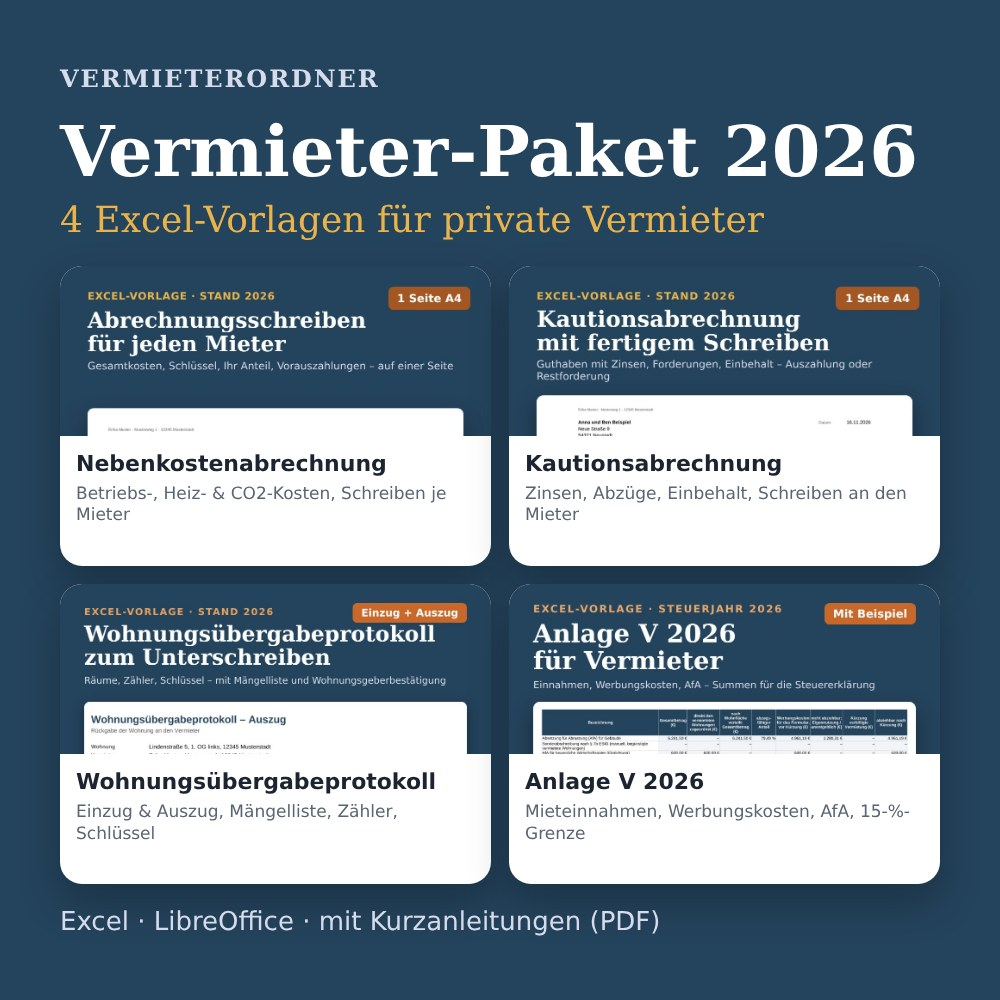
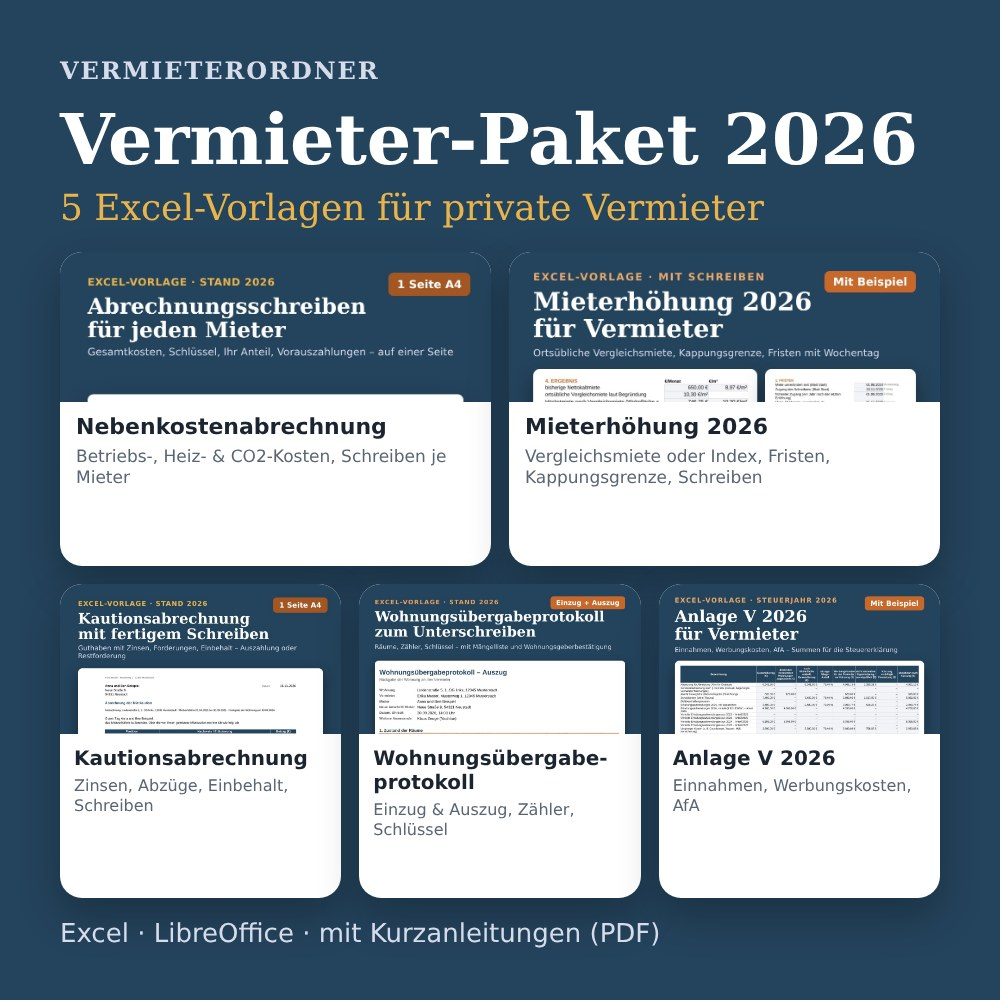
WIP: Vermieter-Paket mit 5 Vorlagen (39,90 €) – erst nach DS24-Umstellung live
Claude-Session: https://claude.ai/code/session_0175UiJjZS6AvFwhkbq53yr1

Changed region(s): [[0.062, 0.062, 0.961, 0.527], [0.062, 0.589, 0.961, 0.961], [0.868, 0.465, 0.899, 0.496]]

diff --git a/docs/vermieter-paket.html b/docs/vermieter-paket.html
@@ -3,12 +3,12 @@
 <head>
 <meta charset="utf-8">
 <meta name="viewport" content="width=device-width, initial-scale=1">
-<title>Vermieter-Paket 2026: 4 Excel-Vorlagen für private Vermieter</title>
-<meta name="description" content="Nebenkostenabrechnung, Kautionsabrechnung, Wohnungsübergabeprotokoll und Anlage V 2026 als Excel-Vorlagen im Paket für 32,90 €.">
+<title>Vermieter-Paket 2026: 5 Excel-Vorlagen für private Vermieter</title>
+<meta name="description" content="Nebenkostenabrechnung, Kautionsabrechnung, Wohnungsübergabeprotokoll, Anlage V und Mieterhöhung 2026 als Excel-Vorlagen im Paket für 39,90 €.">
 <link rel="stylesheet" href="style.css">
 <link rel="canonical" href="https://vermieterordner.de/vermieter-paket.html">
-<meta property="og:title" content="Vermieter-Paket 2026: 4 Excel-Vorlagen für private Vermieter">
-<meta property="og:description" content="Nebenkostenabrechnung, Kautionsabrechnung, Wohnungsübergabeprotokoll und Anlage V 2026 als Excel-Vorlagen im Paket für 32,90 €.">
+<meta property="og:title" content="Vermieter-Paket 2026: 5 Excel-Vorlagen für private Vermieter">
+<meta property="og:description" content="Nebenkostenabrechnung, Kautionsabrechnung, Wohnungsübergabeprotokoll, Anlage V und Mieterhöhung 2026 als Excel-Vorlagen im Paket für 39,90 €.">
 <meta property="og:type" content="website">
 <meta property="og:url" content="https://vermieterordner.de/vermieter-paket.html">
 <meta property="og:locale" content="de_DE">
@@ -18,7 +18,7 @@
 <link rel="icon" href="favicon.svg" type="image/svg+xml">
 <link rel="icon" href="favicon-48.png" sizes="48x48" type="image/png"><link rel="apple-touch-icon" href="apple-touch-icon.png">
 <meta name="theme-color" content="#24435C">
-<script type="application/ld+json">{"@context": "https://schema.org", "@type": "Product", "name": "Vermieter-Paket 2026", "description": "4 Excel-Vorlagen in einem Download: Nebenkostenabrechnung, Kautionsabrechnung, Wohnungsübergabeprotokoll und Anlage V 2026.", "image": "https://vermieterordner.de/img/vermieter-paket-1.jpg", "brand": {"@type": "Brand", "name": "Vermieterordner"}, "offers": {"@type": "Offer", "price": "32.90", "priceCurrency": "EUR", "availability": "https://schema.org/InStock", "url": "https://vermieterordner.de/vermieter-paket.html"}}</script><script type="application/ld+json">{"@context": "https://schema.org", "@type": "FAQPage", "mainEntity": [{"@type": "Question", "name": "Sind das dieselben Vorlagen wie beim Einzelkauf?", "acceptedAnswer": {"@type": "Answer", "text": "Ja. Das Paket enthält genau die vier Vorlagen, die es auch einzeln gibt, mit denselben Kurzanleitungen und Beispielen."}}, {"@type": "Question", "name": "Welche Programme brauche ich?", "acceptedAnswer": {"@type": "Answer", "text": "Alle vier Vorlagen sind für Microsoft Excel und LibreOffice Calc gebaut; Details stehen auf den einzelnen Produktseiten (Anlage V: Excel ab 2010, geprüft in LibreOffice). Nebenkosten- und Kautionsabrechnung funktionieren auch in Google Sheets (ohne Blattschutz und einige Farbmarkierungen). Das Wohnungsübergabeprotokoll ist in Google Sheets nicht getestet, die Anlage V wird in Google Sheets nicht unterstützt."}}, {"@type": "Question", "name": "Ich brauche nur eine oder zwei Vorlagen – lohnt sich das Paket?", "acceptedAnswer": {"@type": "Answer", "text": "Für eine oder zwei Vorlagen ist der Einzelkauf günstiger. Brauchen Sie die Nebenkostenabrechnung und mindestens zwei weitere Vorlagen, lohnt sich das Paket. Die Einzelpreise stehen auf den Produktseiten."}}, {"@type": "Question", "name": "Wie bekomme ich die Datei?", "acceptedAnswer": {"@type": "Answer", "text": "Direkt nach der Zahlung über den Download-Link auf der Bestätigungsseite und zusätzlich per E-Mail von Digistore24."}}, {"@type": "Question", "name": "Für wen sind die Vorlagen gebaut?", "acceptedAnswer": {"@type": "Answer", "text": "Für private Vermieter von Wohnraum in Deutschland. Für Gewerberaum sind sie nicht gebaut. Was jede Vorlage genau abdeckt, steht auf der jeweiligen Produktseite."}}]}</script><script type="application/ld+json">{"@context": "https://schema.org", "@type": "BreadcrumbList", "itemListElement": [{"@type": "ListItem", "position": 1, "name": "Vermieterordner", "item": "https://vermieterordner.de/"}, {"@type": "ListItem", "position": 2, "name": "Vermieter-Paket 2026", "item": "https://vermieterordner.de/vermieter-paket.html"}]}</script>
+<script type="application/ld+json">{"@context": "https://schema.org", "@type": "Product", "name": "Vermieter-Paket 2026", "description": "5 Excel-Vorlagen in einem Download: Nebenkostenabrechnung, Kautionsabrechnung, Wohnungsübergabeprotokoll, Anlage V 2026 und Mieterhöhung 2026.", "image": "https://vermieterordner.de/img/vermieter-paket-1.jpg", "brand": {"@type": "Brand", "name": "Vermieterordner"}, "offers": {"@type": "Offer", "price": "39.90", "priceCurrency": "EUR", "availability": "https://schema.org/InStock", "url": "https://vermieterordner.de/vermieter-paket.html"}}</script><script type="application/ld+json">{"@context": "https://schema.org", "@type": "FAQPage", "mainEntity": [{"@type": "Question", "name": "Sind das dieselben Vorlagen wie beim Einzelkauf?", "acceptedAnswer": {"@type": "Answer", "text": "Ja. Das Paket enthält genau die fünf Vorlagen, die es auch einzeln gibt, mit denselben Kurzanleitungen und Beispielen."}}, {"@type": "Question", "name": "Welche Programme brauche ich?", "acceptedAnswer": {"@type": "Answer", "text": "Alle fünf Vorlagen sind für Microsoft Excel und LibreOffice Calc gebaut; Details stehen auf den einzelnen Produktseiten (Anlage V und Mieterhöhung: Excel ab 2010, geprüft in LibreOffice). Nebenkosten- und Kautionsabrechnung funktionieren auch in Google Sheets (ohne Blattschutz und einige Farbmarkierungen). Das Wohnungsübergabeprotokoll ist in Google Sheets nicht getestet, Anlage V und Mieterhöhung werden in Google Sheets nicht unterstützt."}}, {"@type": "Question", "name": "Ich brauche nicht alle Vorlagen – lohnt sich das Paket?", "acceptedAnswer": {"@type": "Answer", "text": "Ab vier Vorlagen lohnt sich das Paket – egal, welche vier Sie brauchen. Für bis zu drei Vorlagen ist der Einzelkauf günstiger. Die Einzelpreise stehen auf den Produktseiten."}}, {"@type": "Question", "name": "Wie bekomme ich die Datei?", "acceptedAnswer": {"@type": "Answer", "text": "Direkt nach der Zahlung über den Download-Link auf der Bestätigungsseite und zusätzlich per E-Mail von Digistore24."}}, {"@type": "Question", "name": "Für wen sind die Vorlagen gebaut?", "acceptedAnswer": {"@type": "Answer", "text": "Für private Vermieter von Wohnraum in Deutschland. Für Gewerberaum sind sie nicht gebaut. Was jede Vorlage genau abdeckt, steht auf der jeweiligen Produktseite."}}]}</script><script type="application/ld+json">{"@context": "https://schema.org", "@type": "BreadcrumbList", "itemListElement": [{"@type": "ListItem", "position": 1, "name": "Vermieterordner", "item": "https://vermieterordner.de/"}, {"@type": "ListItem", "position": 2, "name": "Vermieter-Paket 2026", "item": "https://vermieterordner.de/vermieter-paket.html"}]}</script>
 </head>
 <body>
 <header><div class="wrap">
@@ -28,33 +28,34 @@
 <main>
 <div class="wrap hero">
 <div>
-<p class="eyebrow">4 Excel-Vorlagen · Stand 2026</p>
-<h1 class="serif">Vermieter-Paket 2026 – 4 Excel-Vorlagen für private Vermieter</h1>
-<p class="lead">Vier Vorlagen von Vermieterordner in einem Download: Nebenkosten&shy;abrechnung, Kautions&shy;abrechnung, Wohnungs&shy;übergabe&shy;protokoll und Anlage V 2026. Dieselben Dateien wie beim Einzelkauf – vom Einzug über die jährliche Abrechnung und die Steuererklärung bis zum Auszug.</p>
-<a class="btn" href="https://www.checkout-ds24.com/product/762465" rel="nofollow">Jetzt kaufen – 32,90&nbsp;€</a>
+<p class="eyebrow">5 Excel-Vorlagen · Stand 2026</p>
+<h1 class="serif">Vermieter-Paket 2026 – 5 Excel-Vorlagen für private Vermieter</h1>
+<p class="lead">Fünf Vorlagen von Vermieterordner in einem Download: Nebenkosten&shy;abrechnung, Kautions&shy;abrechnung, Wohnungs&shy;übergabe&shy;protokoll, Anlage V 2026 und Mieterhöhung 2026. Dieselben Dateien wie beim Einzelkauf – vom Einzug über die jährliche Abrechnung, die Mieterhöhung und die Steuererklärung bis zum Auszug.</p>
+<a class="btn" href="https://www.checkout-ds24.com/product/762465" rel="nofollow">Jetzt kaufen – 39,90&nbsp;€</a>
 <p class="note">Digitales Produkt · Download-Link direkt nach dem Kauf · Einmalzahlung, kein Abo</p>
 </div>
 <div><picture><source type="image/webp" srcset="img/vermieter-paket-1-500.webp 500w, img/vermieter-paket-1.webp 1000w" sizes="(max-width:640px) 100vw, 460px"><img class="heroimg" src="img/vermieter-paket-1.jpg" width="1000" height="1000" alt="Produktbild Vermieter-Paket 2026"></picture></div>
 </div>
 <section class="band"><div class="wrap">
 <h2 class="serif">Das bekommen Sie</h2>
-<div class="split"><div><table class="spec"><tr><th>Produkt</th><td>Vermieter-Paket 2026</td></tr><tr><th>Art</th><td>Digitales Produkt zum Herunterladen. Kein Versand, keine Installation, kein Abo.</td></tr><tr><th>Format</th><td>ZIP-Datei mit allen vier Vorlagen – jede mit Excel-Datei (.xlsx) und PDF-Kurzanleitung, Wohnungs&shy;übergabe&shy;protokoll und Anlage V zusätzlich mit ausgefülltem Beispiel. Sprache Deutsch.</td></tr><tr><th>Inhalt</th><td>Nebenkosten&shy;abrechnung (8 Arbeitsblätter), Kautions&shy;abrechnung (5), Wohnungs&shy;übergabe&shy;protokoll (7), Anlage V 2026 (7) – Details auf den einzelnen Produktseiten</td></tr><tr><th>Lieferung</th><td>Download-Link sofort nach der Zahlung, zusätzlich per E-Mail</td></tr><tr><th>Preis</th><td><strong>32,90&nbsp;€ einmalig</strong></td></tr><tr><th>Für wen</th><td>private Vermieter von Wohnraum in Deutschland mit einem oder mehreren Mietobjekten – die Grenzen jeder Vorlage stehen auf den einzelnen Produktseiten</td></tr></table></div>
-<div class="shots"><picture><source type="image/webp" srcset="img/nebenkostenabrechnung-2-500.webp 500w, img/nebenkostenabrechnung-2.webp 1000w" sizes="(max-width:640px) 100vw, 360px"><img src="img/nebenkostenabrechnung-2.jpg" width="1000" height="1000" alt="Beispielansicht Nebenkostenabrechnung" loading="lazy"></picture><picture><source type="image/webp" srcset="img/kautionsabrechnung-2-500.webp 500w, img/kautionsabrechnung-2.webp 1000w" sizes="(max-width:640px) 100vw, 360px"><img src="img/kautionsabrechnung-2.jpg" width="1000" height="1000" alt="Beispielansicht Kautionsabrechnung" loading="lazy"></picture><picture><source type="image/webp" srcset="img/uebergabeprotokoll-2-500.webp 500w, img/uebergabeprotokoll-2.webp 1000w" sizes="(max-width:640px) 100vw, 360px"><img src="img/uebergabeprotokoll-2.jpg" width="1000" height="1000" alt="Beispielansicht Wohnungsübergabeprotokoll" loading="lazy"></picture><picture><source type="image/webp" srcset="img/anlagev-2-500.webp 500w, img/anlagev-2.webp 1000w" sizes="(max-width:640px) 100vw, 360px"><img src="img/anlagev-2.jpg" width="1000" height="1000" alt="Beispielansicht Anlage V 2026" loading="lazy"></picture></div></div>
+<div class="split"><div><table class="spec"><tr><th>Produkt</th><td>Vermieter-Paket 2026</td></tr><tr><th>Art</th><td>Digitales Produkt zum Herunterladen. Kein Versand, keine Installation, kein Abo.</td></tr><tr><th>Format</th><td>ZIP-Datei mit allen fünf Vorlagen – jede mit Excel-Datei (.xlsx) und PDF-Kurzanleitung, Wohnungs&shy;übergabe&shy;protokoll, Anlage V und Mieterhöhung zusätzlich mit ausgefülltem Beispiel. Sprache Deutsch.</td></tr><tr><th>Inhalt</th><td>Nebenkosten&shy;abrechnung (8 Arbeitsblätter), Kautions&shy;abrechnung (5), Wohnungs&shy;übergabe&shy;protokoll (7), Anlage V 2026 (7), Mieterhöhung 2026 (6) – Details auf den einzelnen Produktseiten</td></tr><tr><th>Lieferung</th><td>Download-Link sofort nach der Zahlung, zusätzlich per E-Mail</td></tr><tr><th>Preis</th><td><strong>39,90&nbsp;€ einmalig</strong></td></tr><tr><th>Für wen</th><td>private Vermieter von Wohnraum in Deutschland mit einem oder mehreren Mietobjekten – die Grenzen jeder Vorlage stehen auf den einzelnen Produktseiten</td></tr></table></div>
+<div class="shots"><picture><source type="image/webp" srcset="img/nebenkostenabrechnung-2-500.webp 500w, img/nebenkostenabrechnung-2.webp 1000w" sizes="(max-width:640px) 100vw, 360px"><img src="img/nebenkostenabrechnung-2.jpg" width="1000" height="1000" alt="Beispielansicht Nebenkostenabrechnung" loading="lazy"></picture><picture><source type="image/webp" srcset="img/kautionsabrechnung-2-500.webp 500w, img/kautionsabrechnung-2.webp 1000w" sizes="(max-width:640px) 100vw, 360px"><img src="img/kautionsabrechnung-2.jpg" width="1000" height="1000" alt="Beispielansicht Kautionsabrechnung" loading="lazy"></picture><picture><source type="image/webp" srcset="img/uebergabeprotokoll-2-500.webp 500w, img/uebergabeprotokoll-2.webp 1000w" sizes="(max-width:640px) 100vw, 360px"><img src="img/uebergabeprotokoll-2.jpg" width="1000" height="1000" alt="Beispielansicht Wohnungsübergabeprotokoll" loading="lazy"></picture><picture><source type="image/webp" srcset="img/anlagev-2-500.webp 500w, img/anlagev-2.webp 1000w" sizes="(max-width:640px) 100vw, 360px"><img src="img/anlagev-2.jpg" width="1000" height="1000" alt="Beispielansicht Anlage V 2026" loading="lazy"></picture><picture><source type="image/webp" srcset="img/mieterhoehung-2-500.webp 500w, img/mieterhoehung-2.webp 1000w" sizes="(max-width:640px) 100vw, 360px"><img src="img/mieterhoehung-2.jpg" width="1000" height="1000" alt="Beispielansicht Mieterhöhung 2026" loading="lazy"></picture></div></div>
 </div></section>
-<section><div class="wrap"><h2 class="serif">Was die vier Vorlagen können</h2><div class="grid2"><div class="feat"><h3>Nebenkosten&shy;abrechnung</h3><p>Betriebs-, Heiz- und CO2-Kosten für bis zu 12 Mietverhältnisse verteilen – mit Abrechnungs&shy;schreiben je Mieter, Anlage nach §&nbsp;6a HeizkostenV und Fristprüfung.</p></div><div class="feat"><h3>Kautions&shy;abrechnung</h3><p>Kaution mit Zinsen abrechnen, Schäden zum Zeitwert ansetzen und bei Bedarf einen Einbehalt für eine noch ausstehende Betriebskosten&shy;abrechnung festhalten – mit Schreiben an den Mieter.</p></div><div class="feat"><h3>Wohnungs&shy;übergabe&shy;protokoll</h3><p>Einzug und Auszug in einer Datei: 90 Positionen in 11 Bereichen, Vergleich mit dem Einzug, Zähler, Schlüssel, Protokoll zum Unterschreiben und Wohnungsgeberbestätigung.</p></div><div class="feat"><h3>Anlage V 2026</h3><p>Mieteinnahmen, Werbungskosten, Erhaltungsaufwand und Gebäude-AfA je Objekt – mit Summen für die Steuererklärung 2026 und 12 Prüfungen.</p></div><div class="feat"><h3>Einmal zahlen, einzeln nutzen</h3><p>Jede Vorlage ist eine eigene Datei mit eigener Kurzanleitung. Für jede neue Abrechnung, jede Übergabe oder jedes weitere Objekt legen Sie einfach eine Kopie an.</p></div></div></div></section>
+<section><div class="wrap"><h2 class="serif">Was die fünf Vorlagen können</h2><div class="grid2"><div class="feat"><h3>Nebenkosten&shy;abrechnung</h3><p>Betriebs-, Heiz- und CO2-Kosten für bis zu 12 Mietverhältnisse verteilen – mit Abrechnungs&shy;schreiben je Mieter, Anlage nach §&nbsp;6a HeizkostenV und Fristprüfung.</p></div><div class="feat"><h3>Kautions&shy;abrechnung</h3><p>Kaution mit Zinsen abrechnen, Schäden zum Zeitwert ansetzen und bei Bedarf einen Einbehalt für eine noch ausstehende Betriebskosten&shy;abrechnung festhalten – mit Schreiben an den Mieter.</p></div><div class="feat"><h3>Wohnungs&shy;übergabe&shy;protokoll</h3><p>Einzug und Auszug in einer Datei: 90 Positionen in 11 Bereichen, Vergleich mit dem Einzug, Zähler, Schlüssel, Protokoll zum Unterschreiben und Wohnungsgeberbestätigung.</p></div><div class="feat"><h3>Anlage V 2026</h3><p>Mieteinnahmen, Werbungskosten, Erhaltungsaufwand und Gebäude-AfA je Objekt – mit Summen für die Steuererklärung 2026 und 12 Prüfungen.</p></div><div class="feat"><h3>Mieterhöhung 2026</h3><p>Erhöhung auf die ortsübliche Vergleichsmiete oder bei Indexmiete nach dem Verbraucherpreisindex rechnen – mit Fristen, Kappungsgrenze, 15 Prüfungen und fertigem Schreiben an den Mieter.</p></div><div class="feat"><h3>Einmal zahlen, einzeln nutzen</h3><p>Jede Vorlage ist eine eigene Datei mit eigener Kurzanleitung. Für jede neue Abrechnung, jede Übergabe, jede Mieterhöhung oder jedes weitere Objekt legen Sie einfach eine Kopie an.</p></div></div></div></section>
 <section><div class="wrap"><h2 class="serif">Im Paket enthalten</h2><div class="pgrid"><a class="pcard" href="nebenkostenabrechnung.html"><picture><source type="image/webp" srcset="img/nebenkostenabrechnung-1-500.webp 500w, img/nebenkostenabrechnung-1.webp 1000w" sizes="(max-width:640px) 100vw, 360px"><img src="img/nebenkostenabrechnung-1.jpg" width="1000" height="1000" alt="Produktbild Nebenkostenabrechnung" loading="lazy"></picture>
 <div class="pbody"><h3>Nebenkosten&shy;abrechnung</h3><p>Betriebs-, Heiz- und CO2-Kosten je Mieter verteilen – mit fertigem Abrechnungs&shy;schreiben.</p><div class="prow"><span class="price">14,90&nbsp;€</span><span class="more">Ansehen</span></div></div></a><a class="pcard" href="kautionsabrechnung.html"><picture><source type="image/webp" srcset="img/kautionsabrechnung-1-500.webp 500w, img/kautionsabrechnung-1.webp 1000w" sizes="(max-width:640px) 100vw, 360px"><img src="img/kautionsabrechnung-1.jpg" width="1000" height="1000" alt="Produktbild Kautionsabrechnung" loading="lazy"></picture>
 <div class="pbody"><h3>Kautions&shy;abrechnung</h3><p>Kaution mit Zinsen abrechnen, Schäden zum Zeitwert ansetzen – mit fertigem Schreiben an den Mieter.</p><div class="prow"><span class="price">9,90&nbsp;€</span><span class="more">Ansehen</span></div></div></a><a class="pcard" href="wohnungsuebergabeprotokoll.html"><picture><source type="image/webp" srcset="img/uebergabeprotokoll-1-500.webp 500w, img/uebergabeprotokoll-1.webp 1000w" sizes="(max-width:640px) 100vw, 360px"><img src="img/uebergabeprotokoll-1.jpg" width="1000" height="1000" alt="Produktbild Wohnungsübergabeprotokoll" loading="lazy"></picture>
 <div class="pbody"><h3>Wohnungs&shy;übergabe&shy;protokoll</h3><p>Einzug und Auszug Raum für Raum protokollieren – mit Mängelliste, Zählern, Schlüsseln und Unterschriftsfeldern.</p><div class="prow"><span class="price">9,90&nbsp;€</span><span class="more">Ansehen</span></div></div></a><a class="pcard" href="anlage-v.html"><picture><source type="image/webp" srcset="img/anlagev-1-500.webp 500w, img/anlagev-1.webp 1000w" sizes="(max-width:640px) 100vw, 360px"><img src="img/anlagev-1.jpg" width="1000" height="1000" alt="Produktbild Anlage V 2026" loading="lazy"></picture>
-<div class="pbody"><h3>Anlage V 2026</h3><p>Mieteinnahmen, Werbungskosten und AfA je Objekt sammeln – mit Summen für die Anlage V und 12 Prüfungen.</p><div class="prow"><span class="price">12,90&nbsp;€</span><span class="more">Ansehen</span></div></div></a></div></div></section>
+<div class="pbody"><h3>Anlage V 2026</h3><p>Mieteinnahmen, Werbungskosten und AfA je Objekt sammeln – mit Summen für die Anlage V und 12 Prüfungen.</p><div class="prow"><span class="price">12,90&nbsp;€</span><span class="more">Ansehen</span></div></div></a><a class="pcard" href="mieterhoehung.html"><picture><source type="image/webp" srcset="img/mieterhoehung-1-500.webp 500w, img/mieterhoehung-1.webp 1000w" sizes="(max-width:640px) 100vw, 360px"><img src="img/mieterhoehung-1.jpg" width="1000" height="1000" alt="Produktbild Mieterhöhung 2026" loading="lazy"></picture>
+<div class="pbody"><h3>Mieterhöhung 2026</h3><p>Mieterhöhung auf die ortsübliche Vergleichsmiete oder nach Index rechnen – mit Fristen, Kappungsgrenze und fertigem Schreiben.</p><div class="prow"><span class="price">9,90&nbsp;€</span><span class="more">Ansehen</span></div></div></a></div></div></section>
 <section class="band"><div class="wrap faq">
 <h2 class="serif">Häufige Fragen</h2>
-<h3>Sind das dieselben Vorlagen wie beim Einzelkauf?</h3><p>Ja. Das Paket enthält genau die vier Vorlagen, die es auch einzeln gibt, mit denselben Kurzanleitungen und Beispielen.</p><h3>Welche Programme brauche ich?</h3><p>Alle vier Vorlagen sind für Microsoft Excel und LibreOffice Calc gebaut; Details stehen auf den einzelnen Produktseiten (Anlage V: Excel ab 2010, geprüft in LibreOffice). Nebenkosten- und Kautions&shy;abrechnung funktionieren auch in Google Sheets (ohne Blattschutz und einige Farbmarkierungen). Das Wohnungs&shy;übergabe&shy;protokoll ist in Google Sheets nicht getestet, die Anlage V wird in Google Sheets nicht unterstützt.</p><h3>Ich brauche nur eine oder zwei Vorlagen – lohnt sich das Paket?</h3><p>Für eine oder zwei Vorlagen ist der Einzelkauf günstiger. Brauchen Sie die Nebenkosten&shy;abrechnung und mindestens zwei weitere Vorlagen, lohnt sich das Paket. Die Einzelpreise stehen auf den Produktseiten.</p><h3>Wie bekomme ich die Datei?</h3><p>Direkt nach der Zahlung über den Download-Link auf der Bestätigungsseite und zusätzlich per E-Mail von Digistore24.</p><h3>Für wen sind die Vorlagen gebaut?</h3><p>Für private Vermieter von Wohnraum in Deutschland. Für Gewerberaum sind sie nicht gebaut. Was jede Vorlage genau abdeckt, steht auf der jeweiligen Produktseite.</p>
+<h3>Sind das dieselben Vorlagen wie beim Einzelkauf?</h3><p>Ja. Das Paket enthält genau die fünf Vorlagen, die es auch einzeln gibt, mit denselben Kurzanleitungen und Beispielen.</p><h3>Welche Programme brauche ich?</h3><p>Alle fünf Vorlagen sind für Microsoft Excel und LibreOffice Calc gebaut; Details stehen auf den einzelnen Produktseiten (Anlage V und Mieterhöhung: Excel ab 2010, geprüft in LibreOffice). Nebenkosten- und Kautions&shy;abrechnung funktionieren auch in Google Sheets (ohne Blattschutz und einige Farbmarkierungen). Das Wohnungs&shy;übergabe&shy;protokoll ist in Google Sheets nicht getestet, Anlage V und Mieterhöhung werden in Google Sheets nicht unterstützt.</p><h3>Ich brauche nicht alle Vorlagen – lohnt sich das Paket?</h3><p>Ab vier Vorlagen lohnt sich das Paket – egal, welche vier Sie brauchen. Für bis zu drei Vorlagen ist der Einzelkauf günstiger. Die Einzelpreise stehen auf den Produktseiten.</p><h3>Wie bekomme ich die Datei?</h3><p>Direkt nach der Zahlung über den Download-Link auf der Bestätigungsseite und zusätzlich per E-Mail von Digistore24.</p><h3>Für wen sind die Vorlagen gebaut?</h3><p>Für private Vermieter von Wohnraum in Deutschland. Für Gewerberaum sind sie nicht gebaut. Was jede Vorlage genau abdeckt, steht auf der jeweiligen Produktseite.</p>
 </div></section>
 <section id="kaufen" class="band"><div class="wrap buy">
 <h2 class="serif">Vermieter-Paket 2026 kaufen</h2>
 <p class="sub2">Digitaler Download · sofort nach der Zahlung verfügbar</p>
-<div class="price-big serif">32,90&nbsp;€</div>
+<div class="price-big serif">39,90&nbsp;€</div>
 <a class="btn btn-lg" href="https://www.checkout-ds24.com/product/762465" rel="nofollow">Jetzt kaufen</a>
 <p class="note">Sichere Zahlung und Rechnung über Digistore24. Preis inkl. gesetzlicher MwSt., sofern anfallend.</p>
 </div></section>

diff --git a/docs/index.html b/docs/index.html
@@ -46,8 +46,8 @@
 <div class="pbuy"><span class="price">12,90&nbsp;€</span><a class="btn btn-sm" href="anlage-v.html">Ansehen</a></div></article><article class="prow2"><a class="pthumb" href="mieterhoehung.html"><picture><source type="image/webp" srcset="img/mieterhoehung-1-500.webp 500w, img/mieterhoehung-1.webp 1000w" sizes="(max-width:640px) 100vw, 360px"><img src="img/mieterhoehung-1.jpg" width="1000" height="1000" alt="Produktbild Mieterhöhung 2026" loading="lazy"></picture></a>
 <div class="ptxt"><h3><a href="mieterhoehung.html">Mieterhöhung 2026</a></h3><p>Mieterhöhung auf die ortsübliche Vergleichsmiete oder nach Index rechnen – mit Fristen, Kappungsgrenze und fertigem Schreiben.</p><ul class="ticks"><li>Fristen mit Wochentag</li><li>Kappungsgrenze 20&nbsp;% oder 15&nbsp;%</li><li>Vier Begründungsmittel</li></ul></div>
 <div class="pbuy"><span class="price">9,90&nbsp;€</span><a class="btn btn-sm" href="mieterhoehung.html">Ansehen</a></div></article><article class="prow2"><a class="pthumb" href="vermieter-paket.html"><picture><source type="image/webp" srcset="img/vermieter-paket-1-500.webp 500w, img/vermieter-paket-1.webp 1000w" sizes="(max-width:640px) 100vw, 360px"><img src="img/vermieter-paket-1.jpg" width="1000" height="1000" alt="Produktbild Vermieter-Paket 2026" loading="lazy"></picture></a>
-<div class="ptxt"><h3><a href="vermieter-paket.html">Vermieter-Paket 2026</a></h3><p>4 Excel-Vorlagen in einem Download: Nebenkosten&shy;abrechnung, Kautions&shy;abrechnung, Wohnungs&shy;übergabe&shy;protokoll und Anlage V 2026.</p><ul class="ticks"><li>4 Vorlagen, je eine eigene Datei</li><li>Dieselben Dateien wie einzeln</li><li>Eine Zahlung, ein Download</li></ul></div>
-<div class="pbuy"><span class="price">32,90&nbsp;€</span><a class="btn btn-sm" href="vermieter-paket.html">Ansehen</a></div></article></div>
+<div class="ptxt"><h3><a href="vermieter-paket.html">Vermieter-Paket 2026</a></h3><p>5 Excel-Vorlagen in einem Download: Nebenkosten&shy;abrechnung, Kautions&shy;abrechnung, Wohnungs&shy;übergabe&shy;protokoll, Anlage V 2026 und Mieterhöhung 2026.</p><ul class="ticks"><li>5 Vorlagen, je eine eigene Datei</li><li>Dieselben Dateien wie einzeln</li><li>Eine Zahlung, ein Download</li></ul></div>
+<div class="pbuy"><span class="price">39,90&nbsp;€</span><a class="btn btn-sm" href="vermieter-paket.html">Ansehen</a></div></article></div>
 <p class="note">Einmalzahlung, kein Abo. Preise inkl. gesetzlicher MwSt., sofern anfallend.</p>
 </div></section>
 <section class="about"><div class="wrap duo">

diff --git a/docs/anlage-v.html b/docs/anlage-v.html
@@ -54,7 +54,7 @@
 <div class="price-big serif">12,90&nbsp;€</div>
 <a class="btn btn-lg" href="https://www.checkout-ds24.com/product/759897" rel="nofollow">Jetzt kaufen</a>
 <p class="note">Sichere Zahlung und Rechnung über Digistore24. Preis inkl. gesetzlicher MwSt., sofern anfallend.</p>
-<p class="bundlehint">Auch im <a href="vermieter-paket.html">Vermieter-Paket 2026</a> enthalten: 4 Vorlagen für 32,90&nbsp;€.</p>
+<p class="bundlehint">Auch im <a href="vermieter-paket.html">Vermieter-Paket 2026</a> enthalten: 5 Vorlagen für 39,90&nbsp;€.</p>
 </div></section>
 </main>
 <footer><div class="wrap">

diff --git a/docs/nebenkostenabrechnung.html b/docs/nebenkostenabrechnung.html
@@ -54,7 +54,7 @@
 <div class="price-big serif">14,90&nbsp;€</div>
 <a class="btn btn-lg" href="https://www.checkout-ds24.com/product/757557" rel="nofollow">Jetzt kaufen</a>
 <p class="note">Sichere Zahlung und Rechnung über Digistore24. Preis inkl. gesetzlicher MwSt., sofern anfallend.</p>
-<p class="bundlehint">Auch im <a href="vermieter-paket.html">Vermieter-Paket 2026</a> enthalten: 4 Vorlagen für 32,90&nbsp;€.</p>
+<p class="bundlehint">Auch im <a href="vermieter-paket.html">Vermieter-Paket 2026</a> enthalten: 5 Vorlagen für 39,90&nbsp;€.</p>
 </div></section>
 </main>
 <footer><div class="wrap">

diff --git a/docs/kautionsabrechnung.html b/docs/kautionsabrechnung.html
@@ -54,7 +54,7 @@
 <div class="price-big serif">9,90&nbsp;€</div>
 <a class="btn btn-lg" href="https://www.checkout-ds24.com/product/758283" rel="nofollow">Jetzt kaufen</a>
 <p class="note">Sichere Zahlung und Rechnung über Digistore24. Preis inkl. gesetzlicher MwSt., sofern anfallend.</p>
-<p class="bundlehint">Auch im <a href="vermieter-paket.html">Vermieter-Paket 2026</a> enthalten: 4 Vorlagen für 32,90&nbsp;€.</p>
+<p class="bundlehint">Auch im <a href="vermieter-paket.html">Vermieter-Paket 2026</a> enthalten: 5 Vorlagen für 39,90&nbsp;€.</p>
 </div></section>
 </main>
 <footer><div class="wrap">

diff --git a/docs/wohnungsuebergabeprotokoll.html b/docs/wohnungsuebergabeprotokoll.html
@@ -54,7 +54,7 @@
 <div class="price-big serif">9,90&nbsp;€</div>
 <a class="btn btn-lg" href="https://www.checkout-ds24.com/product/759547" rel="nofollow">Jetzt kaufen</a>
 <p class="note">Sichere Zahlung und Rechnung über Digistore24. Preis inkl. gesetzlicher MwSt., sofern anfallend.</p>
-<p class="bundlehint">Auch im <a href="vermieter-paket.html">Vermieter-Paket 2026</a> enthalten: 4 Vorlagen für 32,90&nbsp;€.</p>
+<p class="bundlehint">Auch im <a href="vermieter-paket.html">Vermieter-Paket 2026</a> enthalten: 5 Vorlagen für 39,90&nbsp;€.</p>
 </div></section>
 </main>
 <footer><div class="wrap">

diff --git a/docs/mieterhoehung.html b/docs/mieterhoehung.html
@@ -54,6 +54,7 @@
 <div class="price-big serif">9,90&nbsp;€</div>
 <a class="btn btn-lg" href="https://www.checkout-ds24.com/product/762477" rel="nofollow">Jetzt kaufen</a>
 <p class="note">Sichere Zahlung und Rechnung über Digistore24. Preis inkl. gesetzlicher MwSt., sofern anfallend.</p>
+<p class="bundlehint">Auch im <a href="vermieter-paket.html">Vermieter-Paket 2026</a> enthalten: 5 Vorlagen für 39,90&nbsp;€.</p>
 </div></section>
 </main>
 <footer><div class="wrap">

diff --git a/src/qa.py b/src/qa.py
@@ -68,6 +68,42 @@ def meta_lengths(max_title=60, max_desc=155):
     return out
 
 
+def bundle_pages():
+    """Pakete (config "includes"): Paketseite ohne Summen-/Vergleichsbeträge, wenn no_compare (DS24-Ablehnung
+    09.11.: „einzeln zusammen …“ galt als Streichpreis) – erlaubt sind nur Paketpreis und Einzelpreise der Karten.
+    Auf jeder enthaltenen Produktseite mit Checkout muss der Paket-Hinweis Anzahl und Preis richtig nennen."""
+    import json
+    cfg = json.load(open(os.path.join(ROOT, "..", "config.json"), encoding="utf-8"))
+    by = {p["slug"]: p for p in cfg.get("products", [])}
+    eur = lambda v: f"{float(v):.2f}".replace(".", ",")
+    out = []
+    for b in cfg.get("products", []):
+        inc = [by[s] for s in dict.fromkeys(b.get("includes", [])) if s in by and s != b["slug"]]
+        if not inc:
+            continue
+        f = os.path.join(ROOT, b["slug"] + ".html")
+        if not os.path.exists(f):
+            out.append(f"{b['slug']}.html fehlt")
+            continue
+        h = re.sub(r"<script.*?</script>", " ", open(f, encoding="utf-8").read(), flags=re.S).replace("&nbsp;", " ")
+        if b.get("no_compare"):
+            ok = {eur(b["price"])} | {eur(q["price"]) for q in inc}
+            amts = set(re.findall(r"(\d+,\d{2}) ?€", h)) - ok
+            if amts:
+                out.append(f"{b['slug']}.html: Beträge außer Paket-/Einzelpreisen trotz no_compare: {sorted(amts)}")
+            if re.search(r"einzeln zusammen|Ersparnis|sparen Sie", h, re.I):
+                out.append(f"{b['slug']}.html: Vergleichs-/Ersparnisformulierung trotz no_compare")
+        want = f"{len(inc)} Vorlagen für {eur(b['price'])} €"
+        for q in inc:
+            if not q.get("checkout_url"):
+                continue
+            hq = open(os.path.join(ROOT, q["slug"] + ".html"), encoding="utf-8").read().replace("&nbsp;", " ")
+            hint = re.search(r'class="bundlehint">.*?href="' + re.escape(b["slug"]) + r'\.html".*?</p>', hq, re.S)
+            if not hint or want not in hint.group(0):
+                out.append(f"{q['slug']}.html: Paket-Hinweis fehlt oder nennt nicht „{want}“")
+    return out
+
+
 def main(argv):
     from playwright.sync_api import sync_playwright
     shot = argv[argv.index("--shot") + 1] if "--shot" in argv else None
@@ -75,6 +111,9 @@ def main(argv):
     for d in dead_links():
         bad += 1
         print("LINK", d)
+    for d in bundle_pages():
+        bad += 1
+        print("PAKET", d)
     # Zu lange Metadaten: bei den Altseiten in META_ALT nur Warnung, sonst ein Problem.
     for m in meta_lengths():
         if m.split(":")[0] in META_ALT:

diff --git a/src/gen_site.py b/src/gen_site.py
@@ -156,12 +156,20 @@ def _check_bundle_amounts(p):
     for k in range(1, len(prices) + 1):
         for c in itertools.combinations(prices, k):
             ok |= {round(sum(c), 2), round(abs(sum(c) - float(p["price"])), 2)}
+    if p.get("no_compare"):  # DS24: keine Summen-/Vergleichs-/Ersparnisbeträge, nur der Paketpreis selbst
+        ok = {round(float(p["price"]), 2)}
     okt = {f"{v:.2f}".replace(".", ",") for v in ok}
-    txt = " ".join([p.get("short", ""), p.get("lead", ""), p.get("meta_description", ""), p.get("seo_title", "")]
-                   + [a + " " + b for a, b in p.get("features", []) + p.get("faq", [])] + p.get("ticks", []))
-    bad = [m for m in _re.findall(r"(\d+,\d{2})\s*€", txt) if m not in okt]
+    txt = " ".join([p.get(k) or "" for k in ("short", "lead", "meta_description", "seo_title", "h1", "eyebrow",
+                                              "format", "content", "features_title", "audience")]
+                   + [a + " " + b for a, b in p.get("features", []) + p.get("faq", [])] + p.get("ticks", [])
+                   + p.get("shots_alt", []))
+    bad = [m for m in _re.findall(r"(\d+(?:,\d{2})?)\s*(?:€|EUR|Euro)", txt) if (m if "," in m else m + ",00") not in okt]
     if bad:
         raise SystemExit(f"FEHLER: Paket {p['slug']}: Beträge passen nicht zu den aktuellen Preisen: {bad}")
+    if p.get("no_compare"):
+        hit = _re.findall(r"einzeln zusammen|Ersparnis|sparen Sie|gespart|statt \d|Gesamtwert|reduziert", txt, _re.I)
+        if hit:
+            raise SystemExit(f"FEHLER: Paket {p['slug']}: Vergleichs-/Ersparnisformulierung trotz no_compare: {hit}")
 
 
 for p in P:
